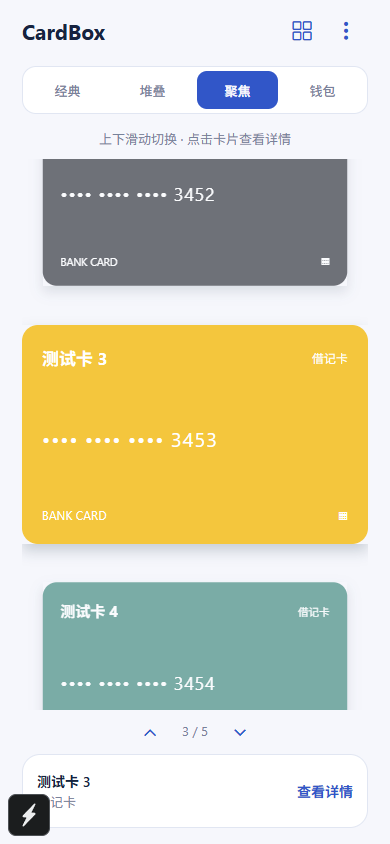
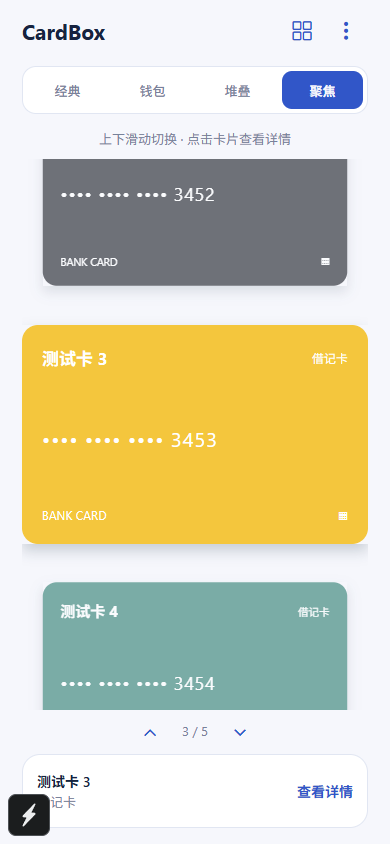
release: record CardBox 3.0.1 Android performance fixes

Changed region(s): [[0.4923, 0.0616, 0.9538, 0.154], [0.3385, 0.0924, 0.4308, 0.1232]]

diff --git a/app.config.ts b/app.config.ts
@@ -56,7 +56,7 @@ const config: ExpoConfig = {
     },
   },
   android: {
-    versionCode: 5,
+    versionCode: 6,
     adaptiveIcon: {
       backgroundColor: "#F2F6F5",
       foregroundImage: "./assets/images/android-icon-foreground.png",

diff --git a/docs/DEVELOPMENT.md b/docs/DEVELOPMENT.md
@@ -1,6 +1,6 @@
 # CardBox 开发与交接指南
 
-更新日期：2026-10-11，当前应用版本为 `3.0.0`（Android `versionCode: 5`）。作者：xieyanker；仓库：[GitHub](https://github.com/xieyanker/cardbox-mobile)。2.0.0 是用户已验收基线；3.0.0 功能代码与自动检查已完成，Android 真机验收待完成。
+更新日期：2026-10-11，当前应用版本为 `3.0.1`（Android `versionCode: 6`）。作者：xieyanker；仓库：[GitHub](https://github.com/xieyanker/cardbox-mobile)。2.0.0 是用户已验收基线；3.0.1 根据真机反馈调整模式排序并修复 Hermes 密码派生瓶颈，用户实际备份流程继续复测。
 
 ## 现有资料与分析依据
 
@@ -29,7 +29,7 @@ https://github.com/xieyanker/cardbox-mobile.git
 
 3.0.0 按用户要求直接在 `main` 完成四个阶段并逐次推送：图标 `5f8011f`、菜单 `13b716a`、浏览模式 `6676c1b`、备份性能 `289f775`。当前检查为 TypeScript 通过、ESLint 0 错误 / 7 条原模板警告、54 条业务测试通过（1 条模板测试跳过）、21 项 Web 回归通过、三模式浏览操作与视觉检查通过、Android Metro 开发包及 Hermes 字节码生成通过。功能和待验收项目见 [3.0 进度](CARDBOX_3.0_REQUIREMENTS.md)，版本变更见 [CHANGELOG](../CHANGELOG.md)。
 
-3.0.0 新导出为 `cardbox-secure-v4`，保持 120,000 轮密码派生并提前验证密码；继续读取 v2 / v3。旧 2.0.0 不能读取新 v4 文件。性能对照与复现脚本见 [备份性能记录](performance/BACKUP_3.0.md)。当前没有在线真机，Android 动画和实际备份耗时尚未验证，也没有生成新 APK。
+3.0.0 新导出为 `cardbox-secure-v4`，保持 120,000 轮密码派生并提前验证密码；继续读取 v2 / v3。旧 2.0.0 不能读取新 v4 文件。3.0.1 在 Android 真机复测中确认 Hermes JS 单块派生需 29.942 秒，改用离线本机 WebCrypto 后为 44 ms；约 0.88 MB 合成数据加解密约 2.7 秒、错误密码 47 ms，不包含系统验证和文件提供器 I/O。性能记录与复现脚本见 [备份性能记录](performance/BACKUP_3.0.md)。顺序设置提交 `fd4c143`，密码加速提交 `a5c0b41`；71 条业务测试、21 项 Web 回归和模式排序 / 重启检查通过。未生成新 APK。
 
 设计文档和原型图纳入 Git 版本维护。按用户 2026-10-11 的要求，后续开发直接在 `main` 分支进行，分批提交可审查的修改，再运行必要检查并在设备上验收。
 
@@ -133,13 +133,13 @@ Windows 可以进行 Android 原生开发。iOS 本机编译与模拟器需要 m
 | 检查                       | 结果                                                                       |
 | -------------------------- | -------------------------------------------------------------------------- |
 | TypeScript                 | 通过                                                                       |
-| ESLint                     | 3.0.0 检查通过，无错误；7 条已有模板警告                                   |
-| Vitest                     | 7 个 CardBox 测试文件、54 条测试通过；原模板 1 条跳过                      |
+| ESLint                     | 3.0.1 检查通过，无错误；7 条已有模板警告                                   |
+| Vitest                     | 9 个 CardBox 测试文件、71 条测试通过；原模板 1 条跳过                      |
 | 排序                       | 已改为按卡片 ID 移动最新数据，连续移动回归测试通过                         |
 | 原型图片复制               | 源文件与归档文件 SHA-256 一致                                              |
 | Android / Web Metro 代码包 | 均成功生成；Android 3.0 开发包 / Hermes 字节码生成通过                      |
 | Web 交互 / 视觉验收        | 21 项隔离 Chrome 回归及三种新模式操作检查通过，已检查浅色 / 深色截图       |
-| Android 真机功能验收       | 2.0.0 用户已验收；3.0.0 待验收，当前无在线真机                              |
+| Android 真机功能验收       | 3.0.1 本机密码与合成加解密已测；用户实际备份和浏览体验继续验收             |
 | APK 构建与安装             | 尚未验证                                                                   |
 | GitHub 远端访问与推送      | 已通过 HTTPS 登录并完成首轮推送、合并；本轮按用户授权提交至 main           |
 
@@ -154,6 +154,7 @@ Windows 可以进行 Android 原生开发。iOS 本机编译与模拟器需要 m
 5. 已拆分存储、认证、校验、图片服务和界面组件；保留既有模板服务端，卡片业务仍无需后端账号或 MySQL。
 6. 已添加关键回归测试：本地完整性校验、v3 备份完整性校验、旧格式兼容、图片恢复失败清理、连续排序、锁定和错误恢复。用户整体验收结果与后续回归清单记录在验收文档。
 7. 用户已验收基线为 2.0.0；3.0.0 的图标、菜单、三种浏览模式、备份性能及提前密码校验代码与自动检查完成并分批推送至 `main`。下一步为 Android 真机验收，详见需求进度；需要安装包时再决定构建方式，不得为了普通代码修改频繁运行 EAS。
+8. 3.0.1 已按真机反馈增加默认模式顺序和配置，修复 Hermes 密码派生性能瓶颈；保留旧版本标签，继续在 main 分阶段提交。用户实际备份目录流程与浏览体验待复测。
 
 本地新格式保护卡片字段；卡面文件位于应用私有目录，未单独加密。导出备份统一加密字段和图片。首次读取兼容旧格式，只有正常修改时改写为新加密格式。3.0.0 新备份为 `cardbox-secure-v4`，同时兼容原有 v2 / v3 备份读取。
 

diff --git a/docs/TESTING.md b/docs/TESTING.md
@@ -2,13 +2,22 @@
 
 更新日期：2026-10-11。CardBox 2.0.0 已由用户通过 USB / Expo Go 在 Android 手机上完成全部功能验收，并确认当前版本可以提交、推送。未运行 EAS 云构建，也未生成正式 APK。
 
-当前代码版本：`3.0.0`（Android 构建编号 5）；作者：xieyanker；[GitHub 项目](https://github.com/xieyanker/cardbox-mobile)。2.0.0 真机验收结论来自用户反馈，3.0.0 的真机验收待完成；以下操作清单保留用于后续回归，不作为工具逐项执行日志。
+当前代码版本：`3.0.1`（Android 构建编号 6）；作者：xieyanker；[GitHub 项目](https://github.com/xieyanker/cardbox-mobile)。2.0.0 真机验收结论来自用户反馈；3.0.1 已完成 Android 合成密码性能测试，用户实际备份流程与动画体验继续验收。
 
-## 3.0.0 自动检查与待验收
+## 3.0.1 本轮重点复测
+
+1. 关于页显示 3.0.1。首页默认模式顺序为经典、钱包、堆叠、聚焦；右上角“显示模式设置”上下移动、返回首页、重启检查保存，再恢复默认。
+2. 先保存当前卡包备份，再导出含图片的新备份，分别记录密码处理及目录选择后到成功提示的时间。
+3. 选择刚导出的文件，用错误密码检查提示速度及原卡包不变；正确密码先取消替换确认，再确认恢复，检查卡片和图片。
+4. 手头已有旧 v2 / v3 文件时测试恢复兼容；新导出仍为 v4，密码参数保持不变。
+
+本轮 TypeScript、71 条业务测试、21 项 Web 回归、浏览模式顺序 / 重启 / 边界 / 默认重置检查通过。Android 16 真机单次合成测量：同参数派生从 29.942 秒降至 44 ms；10 卡 + 约 0.88 MB 内容加解密约 2.7 秒、错误密码 47 ms。测量未读写用户卡包，不含文件 I/O / 系统验证，详情见[性能记录](performance/BACKUP_3.0.md)。
+
+## 3.0.0 首轮自动检查记录
 
 类型检查通过；ESLint 0 错误、7 条已有模板警告；54 条业务测试通过、1 条模板测试跳过。`pnpm test:web` 的 21 项回归通过，覆盖新添加入口、备份子菜单、关于页及 v4 备份的导出 / 错误密码 / 取消 / 恢复。`pnpm test:browse` 检查三模式双向手势、卡面点击、详情隐私、模式记忆、浅 / 深色、小屏及首末边界，通过。Android Metro 开发包和 Hermes 字节码生成通过。
 
-备份性能的桌面纯 JS 对照加解密约快 4–6 倍，具体输入、原始样本与限制见[性能记录](performance/BACKUP_3.0.md)。本轮 ADB 没有在线真机，仅发现离线模拟器；尚未测量 Android 备份耗时、动画帧率或安装后图标。
+备份性能的桌面纯 JS 对照加解密约快 4–6 倍，具体输入、原始样本与限制见[性能记录](performance/BACKUP_3.0.md)。3.0.0 首轮验证时 ADB 没有在线真机，仅发现离线模拟器；当时尚未测量 Android 备份耗时、动画帧率或安装后图标。后续真机反馈及 3.0.1 修复见上节。
 
 下一次真机验收重点：
 
@@ -128,7 +137,7 @@ pnpm test:web
 - 本地数据采用带完整性校验的新格式；正常修改时重新加密。旧版合法明文或旧加密数据可以读取，不在初始化时自动改写。
 - v4 备份具有提前密码检查与完整性校验，仍需完成 120,000 轮派生；旧 v3 有完整性校验并继续读取，v2 仅为兼容读取，旧格式本身没有完整性标签。
 - 卡面按固定银行卡比例居中裁剪；到期时间使用 MM/YY 输入；交互裁剪与月份选择器尚未增加。
-- 备份密码派生在支持时使用 WebCrypto，Expo Go / Hermes 使用优化后的 JavaScript PBKDF2；手机耗时待实测。界面显示读文件、验证密码、恢复图片等阶段；超过 50 MB 的备份拒绝处理。
+- 3.0.1 移动端密码派生通过离线系统 WebView 的本机 WebCrypto 处理；保持完整参数，服务错误 / 超时明确失败，不回退到慢路径。界面显示读文件、验证密码、恢复图片等阶段；超过 50 MB 的备份拒绝处理。真机密码 / 加解密合成耗时已测，文件提供器耗时待用户操作复测。
 - 2.0.0 保持原有密码派生参数，改用较轻量的 HMAC-SHA256 实现并定时让出界面线程；显示读取、加密、选择目录及写入校验进度。Android 导出回读校验所选目录中的文件，成功提示包含文件名。
 - iOS Face ID 在 Expo Go 中不可验收；本阶段优先 Android。
 

diff --git a/README.md b/README.md
@@ -1,6 +1,6 @@
 # CardBox
 
-CardBox 是使用 Expo / React Native 开发的本地银行卡管理应用，目标是提供简单、安全、纯本地的卡包体验。当前代码版本为 `3.0.0`，Android 包名为 `com.app.cardboxmobile`。作者：xieyanker；[GitHub 项目](https://github.com/xieyanker/cardbox-mobile)。
+CardBox 是使用 Expo / React Native 开发的本地银行卡管理应用，目标是提供简单、安全、纯本地的卡包体验。当前代码版本为 `3.0.1`，Android 包名为 `com.app.cardboxmobile`。作者：xieyanker；[GitHub 项目](https://github.com/xieyanker/cardbox-mobile)。
 
 ## 项目文档
 
@@ -16,7 +16,7 @@ CardBox 是使用 Expo / React Native 开发的本地银行卡管理应用，目
 
 3.0.0 重新设计包含 CardBox 字样的应用图标，将首页添加入口移到右上角菜单第一项，简化备份管理菜单。首页增加堆叠、聚焦与钱包浏览，保留经典左右滑动及平铺浏览，并记住模式选择。备份优化复用密码派生状态、提前验证密码，并限制图片 I/O 并发；新 v4 备份保留 120,000 轮派生，可读取旧 v2 / v3。桌面 JS 对照加解密约快 4–6 倍，数据与边界见[性能记录](docs/performance/BACKUP_3.0.md)。
 
-3.0.0 已通过类型检查、54 条业务测试、21 项 Web 操作回归、三模式浏览检查、Android 开发包及 Hermes 字节码生成；ESLint 无错误（7 条已有模板警告）。Android 真机动画、备份耗时与 APK 图标验收待完成，目前没有生成 3.0 APK。
+3.0.1 将默认浏览模式顺序改为经典、钱包、堆叠、聚焦，增加“显示模式设置”以调整并保存排列；移动端密码派生使用离线系统 WebCrypto。Android 16 真机测得单块派生从约 30 秒降至 44 毫秒，约 0.88 MB 合成内容的加密 / 解密约 2.7 秒，错误密码检查 47 毫秒；不含原生文件 I/O 和系统验证。已通过类型检查、71 条业务测试、21 项 Web 回归及浏览模式操作检查；实际用户备份流程、动画体验和 APK 图标继续按[验收说明](docs/TESTING.md)复测，目前未生成新 APK。
 
 首轮开发已修复存储初始化、串行写入、设备密钥初始化、身份验证入口、图片持久保存和排序问题，并对照原型调整主界面。2.0.0 已通过类型检查、45 条业务测试、21 项 Web 操作回归检查和 Android 开发代码打包；2026-10-11 用户确认全部验收完成，接受本版本作为当前开发基线。
 

diff --git a/docs/CARDBOX_3.0_REQUIREMENTS.md b/docs/CARDBOX_3.0_REQUIREMENTS.md
@@ -69,6 +69,9 @@
 - 用户要求默认排列为经典、钱包、堆叠、聚焦，并可调整首页模式顺序。已实现“显示模式设置”菜单、上下移动、自动保存和恢复默认；7 条配置测试及 Web 顺序 / 重启 / 边界 / 恢复默认检查通过。
 - 用户反馈导入、导出、错误密码仍至少一分钟。桌面 3.0.0 性能结果无法代表 Hermes 真机性能，备份优化继续处理中，尚不视为通过真机验收。
 - 后续真机定位：Hermes JS 120,000 轮单块需 29.942 秒；3.0.1 离线本机 WebCrypto 同参数需 44 ms。10 张卡 + 约 0.88 MB 合成图片内容，导出加密 2.650 秒、导入解密 2.786 秒、错误密码 47 ms；不含身份验证、文件读写和目录提供器耗时。新旧参数逐字节兼容，服务超时 / 错误明确失败；原始记录和复现方式见 `docs/performance/BACKUP_3.0.md`。
+- 3.0.1 当前验证：71 条业务测试通过（模板 1 条跳过），TypeScript 与 ESLint 通过（7 条已有模板警告），21 项 Web 回归、模式设置及浏览操作检查通过；版本统一为 3.0.1，Android 构建编号 6。用户实际备份导入 / 导出和动画体验继续复测，未生成新 APK。
+
+### 3.0.0 首轮记录
 
 - 执行顺序：D（图标）→ A（菜单）→ C（新增浏览模式）→ B（备份性能 / 密码校验）。
 - 当前阶段：功能、版本整理与自动检查完成；Android 真机验收待完成。

diff --git a/CHANGELOG.md b/CHANGELOG.md
@@ -1,5 +1,14 @@
 # CardBox 版本变更
 
+## 3.0.1 — 2026-10-11
+
+- 默认模式顺序改为经典、钱包、堆叠、聚焦；新增“显示模式设置”，支持上下移动、自动保存和恢复默认。
+- 修复 Hermes JS 密码派生在真机需要数十秒的问题，通过离线系统 WebView 使用本机 WebCrypto，保留 120,000 轮及 v2 / v3 / v4 读取兼容。
+- 本机服务关闭、不可用或超时明确失败，清理输入副本及待处理请求；本机加速页面禁止网络 / 外部导航 / 文件访问，不保存密码或卡片。
+- Android 构建编号增至 6；3.0.0 及 2.0.0 标签保持不变。
+
+验证：TypeScript、71 条业务测试、21 项 Web 回归及模式排序 / 重启 / 恢复默认检查通过。Android 16 合成真机测得密码派生从 29.942 秒降至 44 ms；约 0.88 MB 内容加密 2.650 秒、解密 2.786 秒、错误密码 47 ms。原始记录见[性能文档](docs/performance/BACKUP_3.0.md)，不含文件 I/O 或系统验证，用户实际备份流程待复测。未生成新 APK。
+
 ## 3.0.0 — 2026-10-11
 
 - 重新设计包含 CardBox 字样的卡包图标，接入应用、自适应 / 单色、启动画面与 Web 图标。
